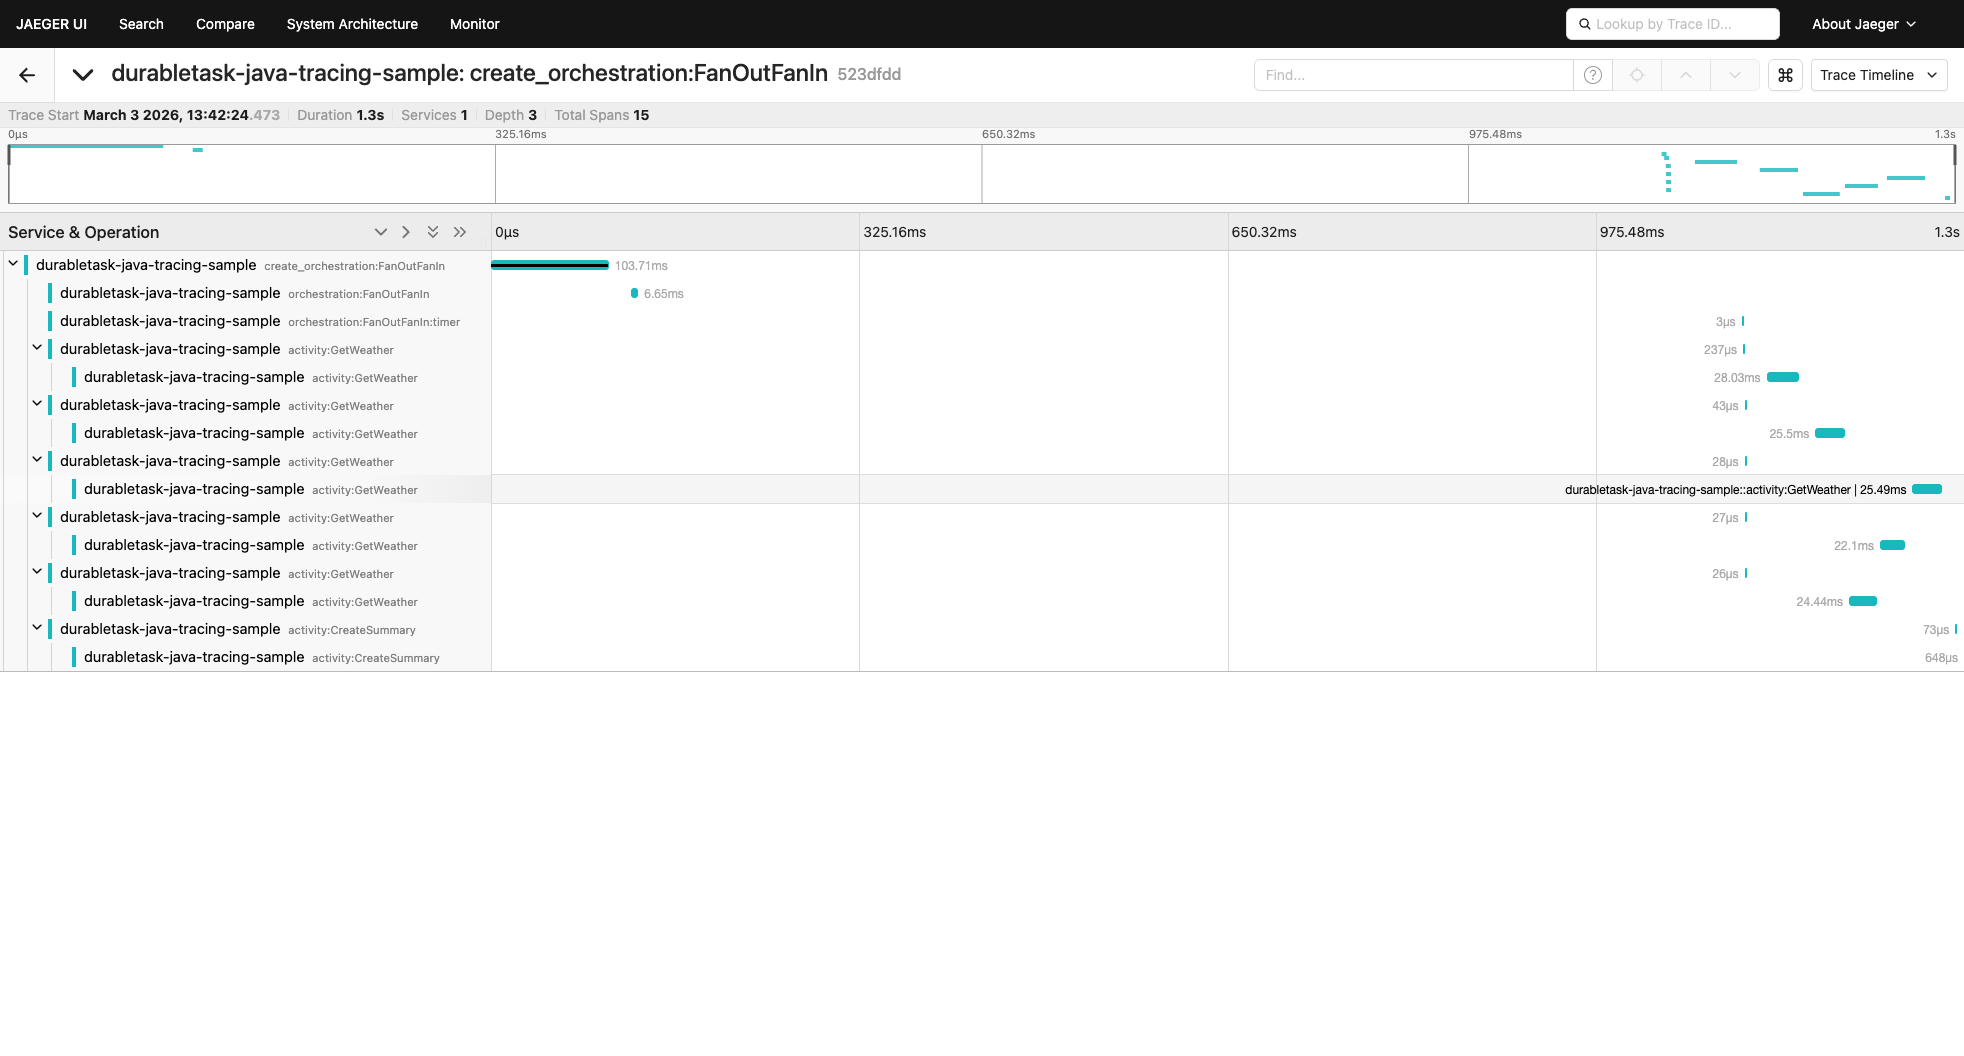
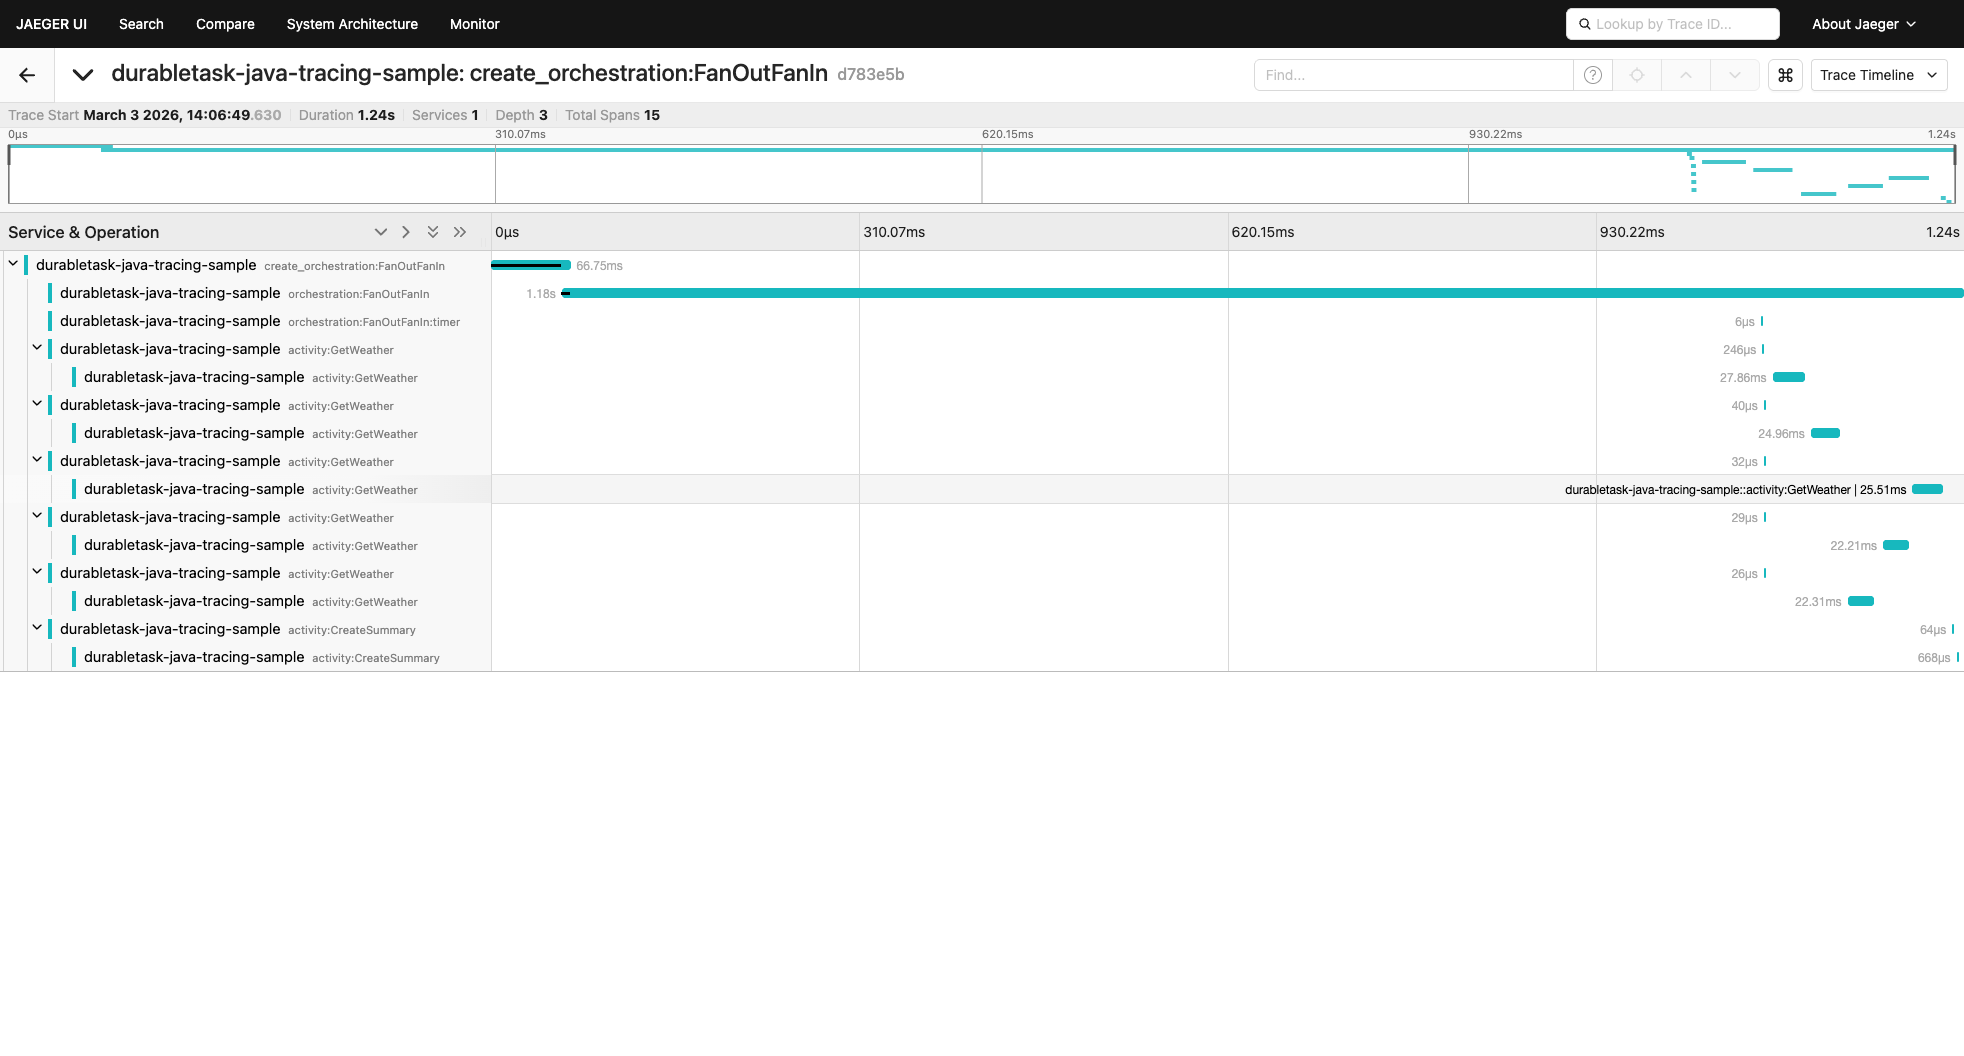
fix: orchestration span covers full lifecycle using ExecutionStartedEvent timestamp
Use ExecutionStartedEvent timestamp as orchestration span start time instead of
OrchestrationTraceContext.spanStartTime (which is not populated by DTS).
Emit orchestration span only on completion/termination, with startTime from
the first ExecutionStartedEvent, so it visually wraps all child activity spans.

Added TracingHelper.startSpanWithStartTime() for creating spans with explicit
start timestamps.

diff --git a/client/src/main/java/com/microsoft/durabletask/DurableTaskGrpcWorker.java b/client/src/main/java/com/microsoft/durabletask/DurableTaskGrpcWorker.java
@@ -16,6 +16,7 @@ import io.opentelemetry.api.trace.SpanKind;
 import io.opentelemetry.context.Scope;
 
 import java.time.Duration;
+import java.time.Instant;
 import java.util.*;
 import java.util.concurrent.TimeUnit;
 import java.util.logging.Level;
@@ -176,38 +177,20 @@ public final class DurableTaskGrpcWorker implements AutoCloseable {
                         // TODO: Run this on a worker pool thread: https://www.baeldung.com/thread-pool-java-and-guava
                         // TODO: Error handling
                         if (!versioningFailed) {
-                            // Extract ExecutionStartedEvent for trace context and orchestration name
-                            ExecutionStartedEvent startedEvent = Stream.concat(
+                            // Extract ExecutionStartedEvent and its timestamp for trace context
+                            HistoryEvent startedHistoryEvent = Stream.concat(
                                     orchestratorRequest.getPastEventsList().stream(),
                                     orchestratorRequest.getNewEventsList().stream())
                                 .filter(event -> event.getEventTypeCase() == HistoryEvent.EventTypeCase.EXECUTIONSTARTED)
-                                .map(HistoryEvent::getExecutionStarted)
                                 .findFirst()
                                 .orElse(null);
 
-                            // Only create orchestration span for the first execution (not replays).
-                            // First execution has EXECUTIONSTARTED in newEvents; replays have it in pastEvents.
-                            boolean isFirstExecution = orchestratorRequest.getNewEventsList().stream()
-                                .anyMatch(event -> event.getEventTypeCase() == HistoryEvent.EventTypeCase.EXECUTIONSTARTED);
+                            ExecutionStartedEvent startedEvent = startedHistoryEvent != null
+                                    ? startedHistoryEvent.getExecutionStarted() : null;
 
                             TraceContext orchTraceCtx = (startedEvent != null && startedEvent.hasParentTraceContext())
                                     ? startedEvent.getParentTraceContext() : null;
                             String orchName = startedEvent != null ? startedEvent.getName() : "";
-
-                            Span orchestrationSpan = null;
-                            Scope orchestrationScope = null;
-                            if (isFirstExecution) {
-                                Map<String, String> orchSpanAttrs = new HashMap<>();
-                                orchSpanAttrs.put(TracingHelper.ATTR_TYPE, TracingHelper.TYPE_ORCHESTRATION);
-                                orchSpanAttrs.put(TracingHelper.ATTR_TASK_NAME, orchName);
-                                orchSpanAttrs.put(TracingHelper.ATTR_INSTANCE_ID, orchestratorRequest.getInstanceId());
-                                orchestrationSpan = TracingHelper.startSpan(
-                                        TracingHelper.TYPE_ORCHESTRATION + ":" + orchName,
-                                        orchTraceCtx,
-                                        SpanKind.SERVER,
-                                        orchSpanAttrs);
-                                orchestrationScope = orchestrationSpan.makeCurrent();
-                            }
 
                             TaskOrchestratorResult taskOrchestratorResult;
                             try {
@@ -215,15 +198,41 @@ public final class DurableTaskGrpcWorker implements AutoCloseable {
                                     orchestratorRequest.getPastEventsList(),
                                     orchestratorRequest.getNewEventsList());
                             } catch (Throwable e) {
-                                TracingHelper.endSpan(orchestrationSpan, e);
-                                if (orchestrationScope != null) orchestrationScope.close();
                                 if (e instanceof Error) {
                                     throw (Error) e;
                                 }
                                 throw new RuntimeException(e);
                             }
-                            if (orchestrationScope != null) orchestrationScope.close();
-                            TracingHelper.endSpan(orchestrationSpan, null);
+
+                            // Emit orchestration span only when the orchestration completes or is terminated.
+                            // Uses ExecutionStartedEvent timestamp as span start time so the span covers
+                            // the full orchestration lifecycle (from creation to completion),
+                            // matching the .NET SDK behavior.
+                            boolean isCompleting = taskOrchestratorResult.getActions().stream()
+                                .anyMatch(a -> a.getOrchestratorActionTypeCase() == OrchestratorAction.OrchestratorActionTypeCase.COMPLETEORCHESTRATION
+                                        || a.getOrchestratorActionTypeCase() == OrchestratorAction.OrchestratorActionTypeCase.TERMINATEORCHESTRATION);
+
+                            if (isCompleting && orchTraceCtx != null) {
+                                Map<String, String> orchSpanAttrs = new HashMap<>();
+                                orchSpanAttrs.put(TracingHelper.ATTR_TYPE, TracingHelper.TYPE_ORCHESTRATION);
+                                orchSpanAttrs.put(TracingHelper.ATTR_TASK_NAME, orchName);
+                                orchSpanAttrs.put(TracingHelper.ATTR_INSTANCE_ID, orchestratorRequest.getInstanceId());
+
+                                // Use the ExecutionStartedEvent timestamp as the orchestration span start time
+                                Instant spanStartTime = null;
+                                if (startedHistoryEvent != null && startedHistoryEvent.hasTimestamp()) {
+                                    spanStartTime = DataConverter.getInstantFromTimestamp(
+                                            startedHistoryEvent.getTimestamp());
+                                }
+
+                                Span orchestrationSpan = TracingHelper.startSpanWithStartTime(
+                                        TracingHelper.TYPE_ORCHESTRATION + ":" + orchName,
+                                        orchTraceCtx,
+                                        SpanKind.SERVER,
+                                        orchSpanAttrs,
+                                        spanStartTime);
+                                orchestrationSpan.end();
+                            }
 
                             OrchestratorResponse response = OrchestratorResponse.newBuilder()
                                     .setInstanceId(orchestratorRequest.getInstanceId())

diff --git a/client/src/main/java/com/microsoft/durabletask/TracingHelper.java b/client/src/main/java/com/microsoft/durabletask/TracingHelper.java
@@ -163,6 +163,26 @@ final class TracingHelper {
             @Nullable TraceContext traceContext,
             @Nullable SpanKind kind,
             @Nullable Map<String, String> attributes) {
+        return startSpanWithStartTime(name, traceContext, kind, attributes, null);
+    }
+
+    /**
+     * Starts a new span as a child of the given trace context, optionally with a custom start time.
+     * Used for orchestration spans where the engine provides the span start time.
+     *
+     * @param name        The span name.
+     * @param traceContext The parent trace context from the protobuf message, may be {@code null}.
+     * @param kind        The span kind, may be {@code null} (defaults to INTERNAL).
+     * @param attributes  Optional span attributes, may be {@code null}.
+     * @param startTime   Optional start time for the span, may be {@code null}.
+     * @return The started {@code Span}. Caller must call {@link Span#end()} when done.
+     */
+    static Span startSpanWithStartTime(
+            String name,
+            @Nullable TraceContext traceContext,
+            @Nullable SpanKind kind,
+            @Nullable Map<String, String> attributes,
+            @Nullable java.time.Instant startTime) {
         Tracer tracer = GlobalOpenTelemetry.getTracer(TRACER_NAME);
         SpanBuilder spanBuilder = tracer.spanBuilder(name);
 
@@ -179,6 +199,10 @@ final class TracingHelper {
             for (Map.Entry<String, String> entry : attributes.entrySet()) {
                 spanBuilder.setAttribute(entry.getKey(), entry.getValue());
             }
+        }
+
+        if (startTime != null) {
+            spanBuilder.setStartTimestamp(startTime);
         }
 
         Span span = spanBuilder.startSpan();
